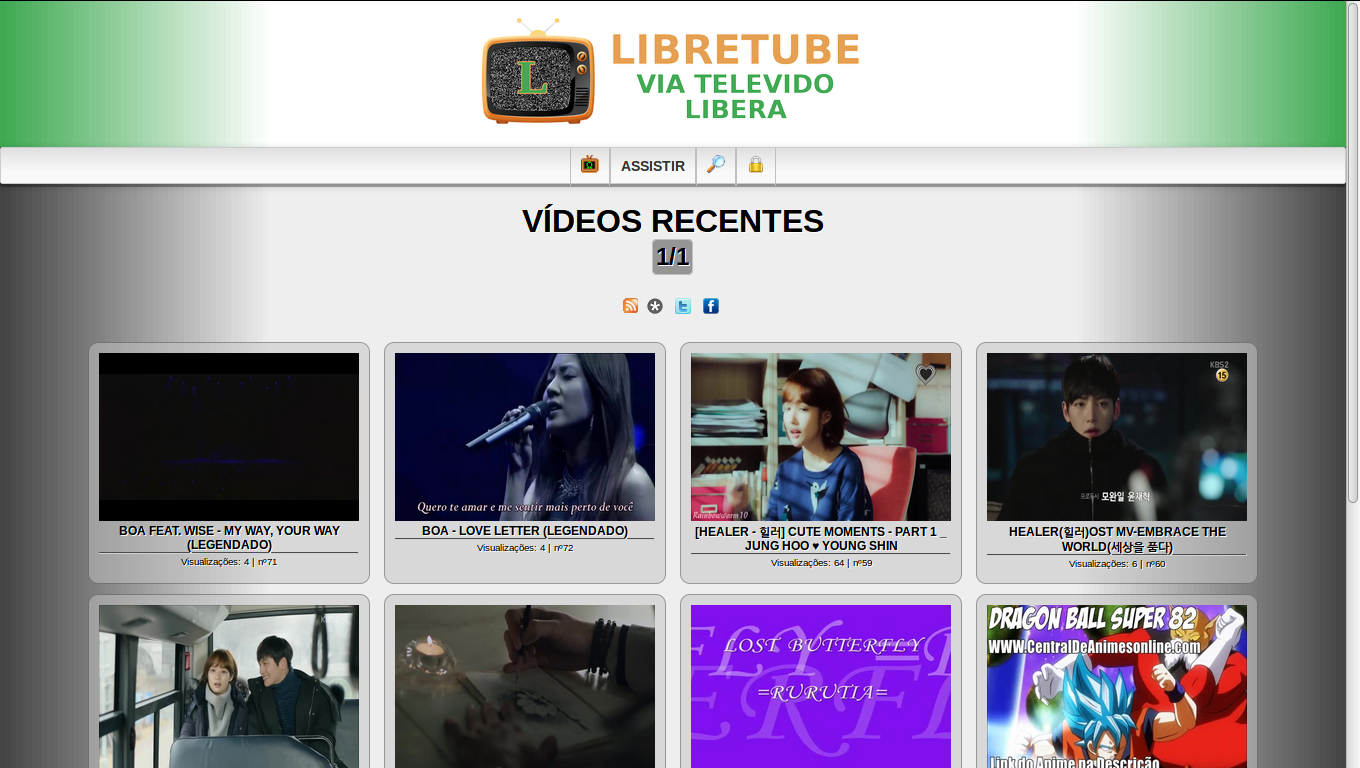
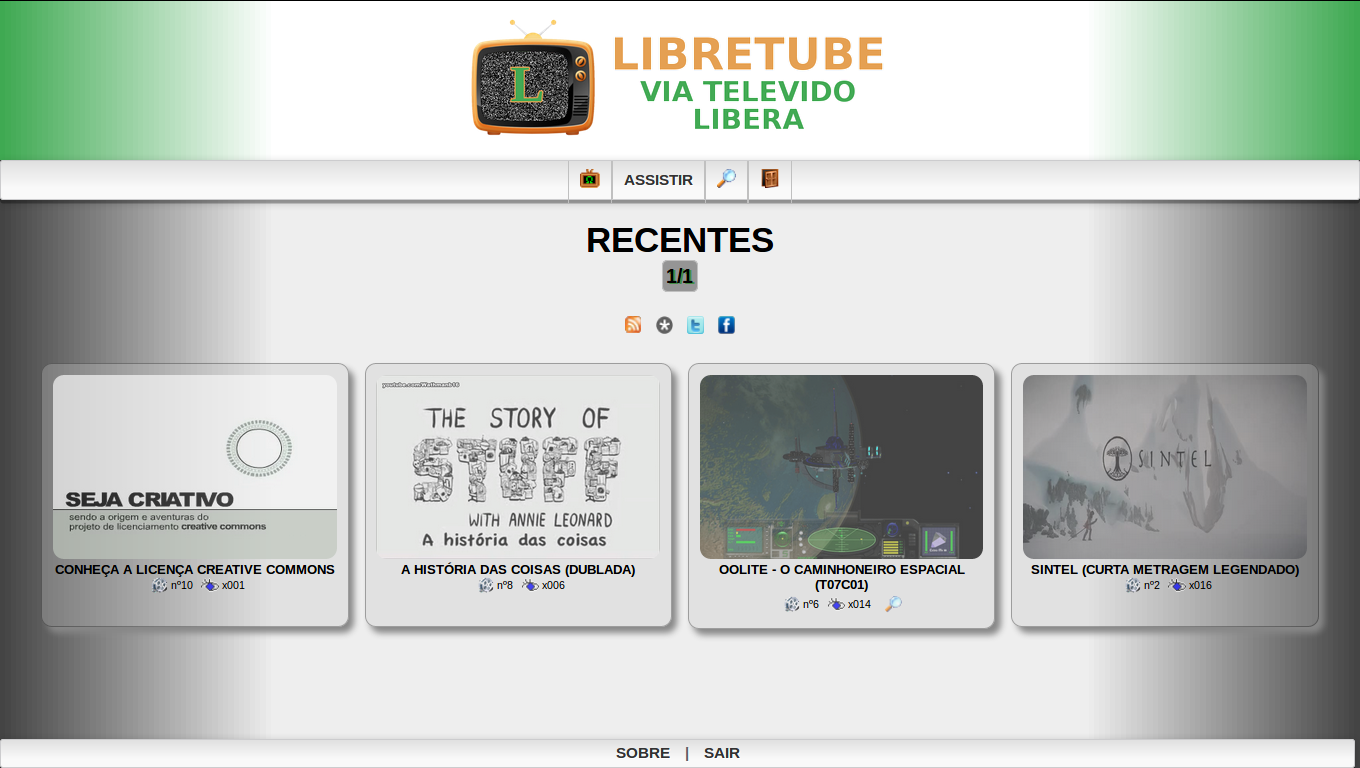
Diversas Correções  * Adicionado botão [sobre] contendo os dados da licença  * Mudança de screenshot

diff --git a/version_201702211459/estilo_geral.css b/version_201702211459/estilo_geral.css
@@ -437,16 +437,17 @@ nav{
 	/*margin:25px;/**/
 }
 
-.frmLicense{
+.frmAbout { /*.frmLicense**/
 	width:100%; 
 }
-.frmLicense td{
-	background-color:#fff;
+
+.frmAbout td{
+	background-color:rgba(128,128,128,0.1);;
 	margin:0px; padding:5px;
 	border:1px solid; 
 }
 
-.frmLicense .cabecalho{
+.frmAbout .cabecalho{
 	background: linear-gradient(to top, #3FA952, #FFF 40%, #FFF 60%, #3FA952);
 	
 	color:#000;

diff --git a/version_201702211459/subs/about.php b/version_201702211459/subs/about.php
@@ -1,0 +1,155 @@
+<center>
+	<div class="FormSession" align="left">
+
+		<div id="TitleSession">
+			<h2>SOBRE O LIBRETUBE</h2>
+		</div>
+		<hr/><br/>
+
+		<p align="justify">
+			<img align="right" src="imgs/banners/simbol_libretube.png">
+			O Libretube é uma plataforma Federada de Televisão (para publicações de vídeo) 
+			sobre servidor apache que pode ser instalado no computadores pessoais (como por exemplo um Raspberry 
+			Pi) do usuário publicador de vídeo. Permitindo que o usuário produtor de vídeo possa seguir as regras 
+			e leis de publicação de conteúdo que acredita ser ético, sem depender da prévia permissão institucional. 
+			Igual ocorre quando alguém quer publicar um vídeo em um servidor de vídeos terceirizado como o youtube, 
+			twitter tv, facebook tv, vimeo, viki, Media Goblin e etc.<br/><br/>
+		</p>
+		<ul>
+			<li>
+				<b>Repositório:</b> <a target="_blank" href="https://github.com/Lunovox/libretube">Libretube</a> (Alfa)<br/><br/>
+				
+				<p align="justify">
+					"<b>Alfa</b>" Significa que o Libretube ainda está em fase de desenvolvimento 
+					inicial, por isso ainda existem muitos paineis, botões, e funções que ainda não estão funcionando. Para 
+					ver como anda a velocidade de desenvolvimento basta ver o <a target="_blank" 
+					href="https://github.com/Lunovox/libretube/graphs/contributors?from=2017-02-19&to=2017-04-09&type=c"
+					>Gráfico de Commits</a>.
+				</p>
+			</li>
+		</ul><br/><br/>
+
+		<h2>Licença LGPLv3</h2>
+		<p>
+			Este projeto (LibreTube) está licenciada sob <b>GNU LGPL v3</b> (GNU Lesser General Public License versão 3). Isto permite que você use, estude, adapte, redistribua (comercialmente ou não) tanto a obra original quanto as adaptações. Porém, você deve atribuir a obra todas as vezes que usá-la, indicando o detentor dos direitos autorais (a quem esta obra pertence), o nome dela, como ela foi adquirida (ou onde ela pode ser adquirida, seja um endereço, e-mail, telefone, ou qualquer outro meio em que ela possa ser transferida), além de ter a obrigação de informar a licença da obra, e um endereço ou documento com a licença completa (ou seja, contendo o código legal). Além disso, caso você faça adaptações do projeto, deve manter a mesma licença, ou uma licença completamente compatível, conforme avaliada pela Free Software Foundation.
+		</p><br/>
+		<p>
+			<ul>
+				<li>
+					Para mais informações, consulte a <a target="_blank" 
+					href="http://www.gnu.org/licenses/lgpl-3.0.html"
+					>licença completa (código legal)</a>.
+				</li>
+			</ul>
+		</p><br/>
+		<p>
+			Como uma permissão adicional sob <b>GNU LGPL</b> versão 3 seção 7, você pode distribuir códigos objetos que não são a fonte (e.g., por estarem minimizados ou compacotados) sem a cópia da <b>GNU LGPL</b> normalmente requerida pela seção 4, desde que você inclua esta notificação de licença e um URL pelo qual os recipientes/leitores possam acessar a Fonte Correspondente.
+		</p><br/><br/>
+
+		<h2>IDIOMAS SUPORTADOS:</h2>
+		<table class="frmAbout">
+			<tr>
+				<td>
+					<h3>Português</h3>
+					O desenvolvimento está apenas no início. Quando estiver na etapa de internacionalização haverá adaptação para outros idiomas.
+				</td>
+			</tr>		
+		</table>
+		<br/>
+
+
+		<h2>Lista de Desenvolvedores ( ͡° ͜ʖ ͡°)</h2>
+		<table class="frmAbout">
+			<tr>
+				<td>
+					<ul>
+						<li><a target="_blank" href="https://libreplanet.org/wiki/User:Lunovox"><b>Lunovox Heavenfinder</b></a></li>
+						<li><a target="_blank" href="https://libreplanet.org/wiki/User:Adfeno"><b>Adonay Felipe Nogueira</b></a></li>
+					</ul>
+				</td>
+			</tr>		
+		</table>
+		<br/>
+
+		<h2>DEPENDÊNCIAS</h2>
+		<table class="frmAbout">
+			<tr>
+				<td>
+					<ul>
+						<li><b>Apache2:</b>  Usado para fazer servidor de sites</li>
+						<li><b>MySQL:</b>  Usado para fazer servidor de Banco de Dados MySQL</li>
+						<li><b>PHP5:</b>  Usado para manipular dinamicamente ao formato de site</li>
+						<li><b>Avcov:</b>  Usado para gerar os Thumbnails (posters de vídeos).</li>
+						<!--li><b>SQLite3:</b>  Usado para geranciar banco de dados SQLite versão 3.</li-->
+					</ul><br/>
+					
+					<b>Comando para Instalação de Dependências:</b><br/>
+					<ul>
+						<li>
+							<code>
+								sudo apt-get update & sudo apt-get install 
+								apache2 mysql-server php5 <!--php5-sqlite--> php5-mysql <!--phpmyadmin--> libav-tools
+							</code>
+						</li>
+					</ul>
+				</td>
+			</tr>		
+		</table>
+		<br/>
+
+		<h2>BIBLIOTECAS INCLUSAS</h2>
+		<table class="frmAbout">
+			<tr>
+				<td>
+					<h3>TinyMCE</h3>
+					Descrição: Usado como editor QWERTY para comentários de vídeos.<br/>
+					Arquivo Apontado: <a href="libs/tinymce_4.3.2/js/tinymce/tinymce.min.js">tinymce.min.js</a><br/>
+					Código Fonte: <a href="libs/tinymce_4.3.2/js/tinymce/tinymce.js">tinymce.js</a><br/>
+					Licença: <a href="http://www.gnu.org/licenses/lgpl-2.1.html">GNU Lesser General Public License, versão 2.1</a><br/>
+					Repositório do Mantenedor: <a href="https://github.com/tinymce/tinymce">github.com</a><br/>
+				</td>
+			</tr>		
+			<tr>
+				<td>
+					<h3>getID3</h3>
+					Descrição: Usado para coletar metadados dos vídeos.<br/>
+					Arquivo Apontado: <a href="libs/getID3-1.9.12/getid3/getid3.php">getid3.php</a><br/>
+					Código Fonte: <a href="libs/getID3-1.9.12/getid3/getid3.php">getid3.php</a><br/>
+					Licença: <a href="http://www.gnu.org/licenses/lgpl-2.1.html">GNU Lesser General Public License, versão 2.1</a><br/>
+					Repositório do Mantenedor: <a href="https://github.com/JamesHeinrich/getID3">github.com</a><br/>
+				</td>
+			</tr>		
+		</table>
+		<br/>
+
+		<h2>Funções Extras</h2>
+		<table class="frmAbout">
+			<tr>
+				<td>
+					<h3>Implantadas</h3>
+					<ul>
+						<li>Botões de Assinatura de Novidade do Canal</li>
+						<li>Botões de Compartilhamento em Rede Sociais</li>
+						<li>Botões de Downoad de Mídias, como: Vídeo, Poster, e Legenda</li>
+						<li>Adaptação para Tela de Navegadores Dispositivos Móveis como Tablet ou Celulares</li>
+					</ul>
+				</td>
+			</tr>		
+			<tr>
+				<td>
+					<h3> Futuras</h3>
+					<ul>
+						<li>Botões de Personalização de Aparência do Canal</li>
+						<li>Botões de Configuração de Progressão de Vídeo</li>
+						<li>Botões de Embutir Vídeo em sites Externos</li>
+						<li>Botões de Postar Comentário sobre vídeo</li>
+						<li>Botões de Postar Avaliação de Relevância sobre vídeo</li>
+						<li>Botões de Gerenciamente de Federação</li>
+					</ul>
+				</td>
+			</tr>		
+		</table>
+		<br/>
+		
+	</div>
+<center>

diff --git a/version_201702211459/index.php b/version_201702211459/index.php
@@ -151,7 +151,7 @@ if(Propriedade("video")!=""){
 		<br/><br/><!-- é necessário um espaço entre o session e o footer-->
 		
 		<footer>
-			<a href="?sub=license" rel="jslicense">Licença</a> | <!--a href="?sub=soucecode" >Código Fonte</a--> | 
+			<a href="?sub=about" rel="jslicense">Sobre</a> | 
 			<?php if(!isLoged()){ ?>
 				<a href="?sub=log" >Entrar</a>
 			<?php }else{ ?>
